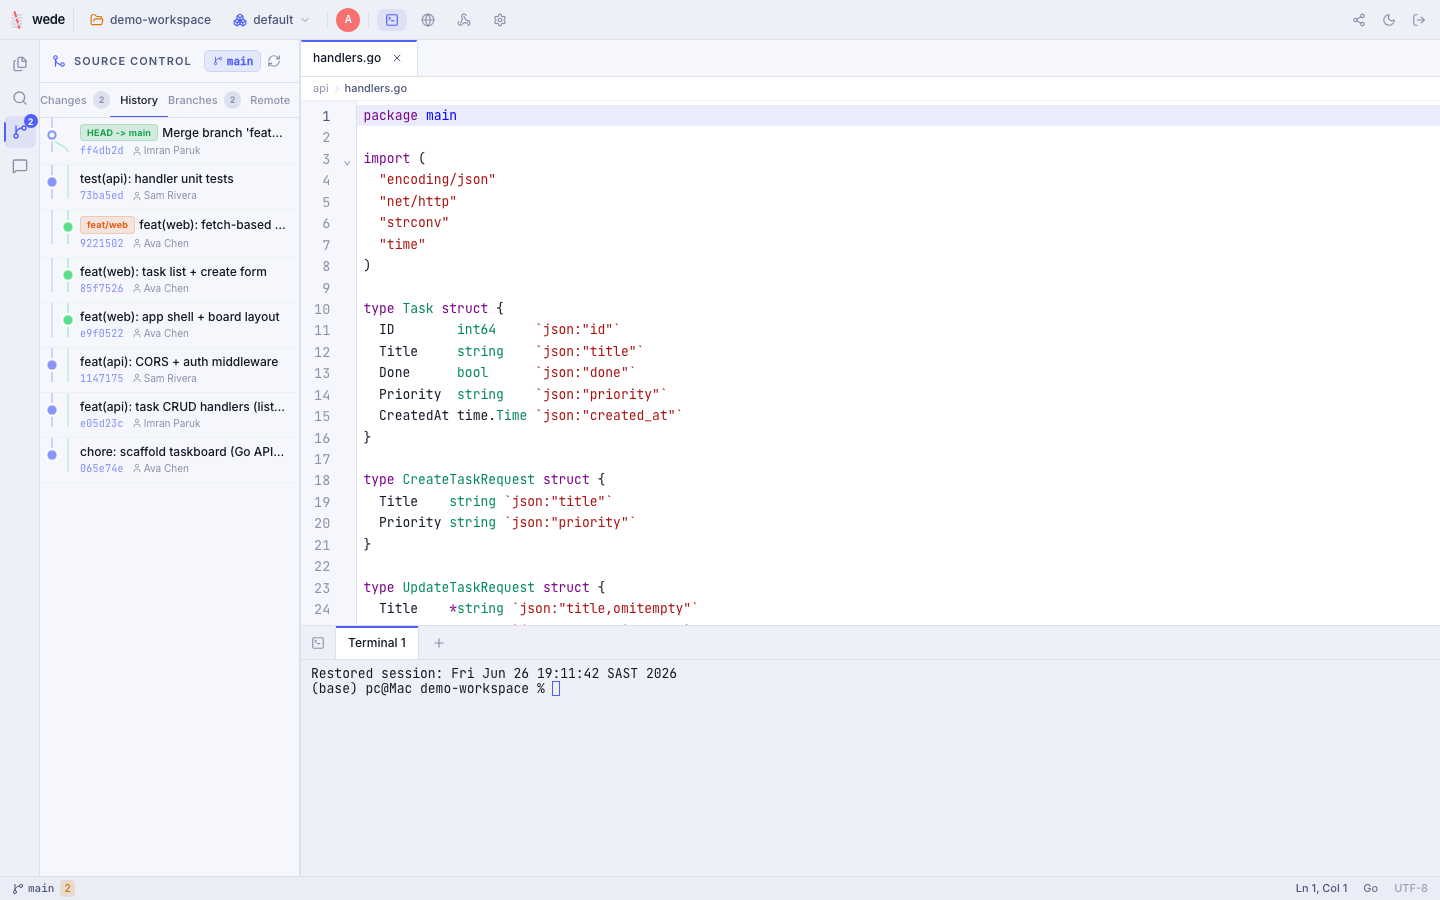
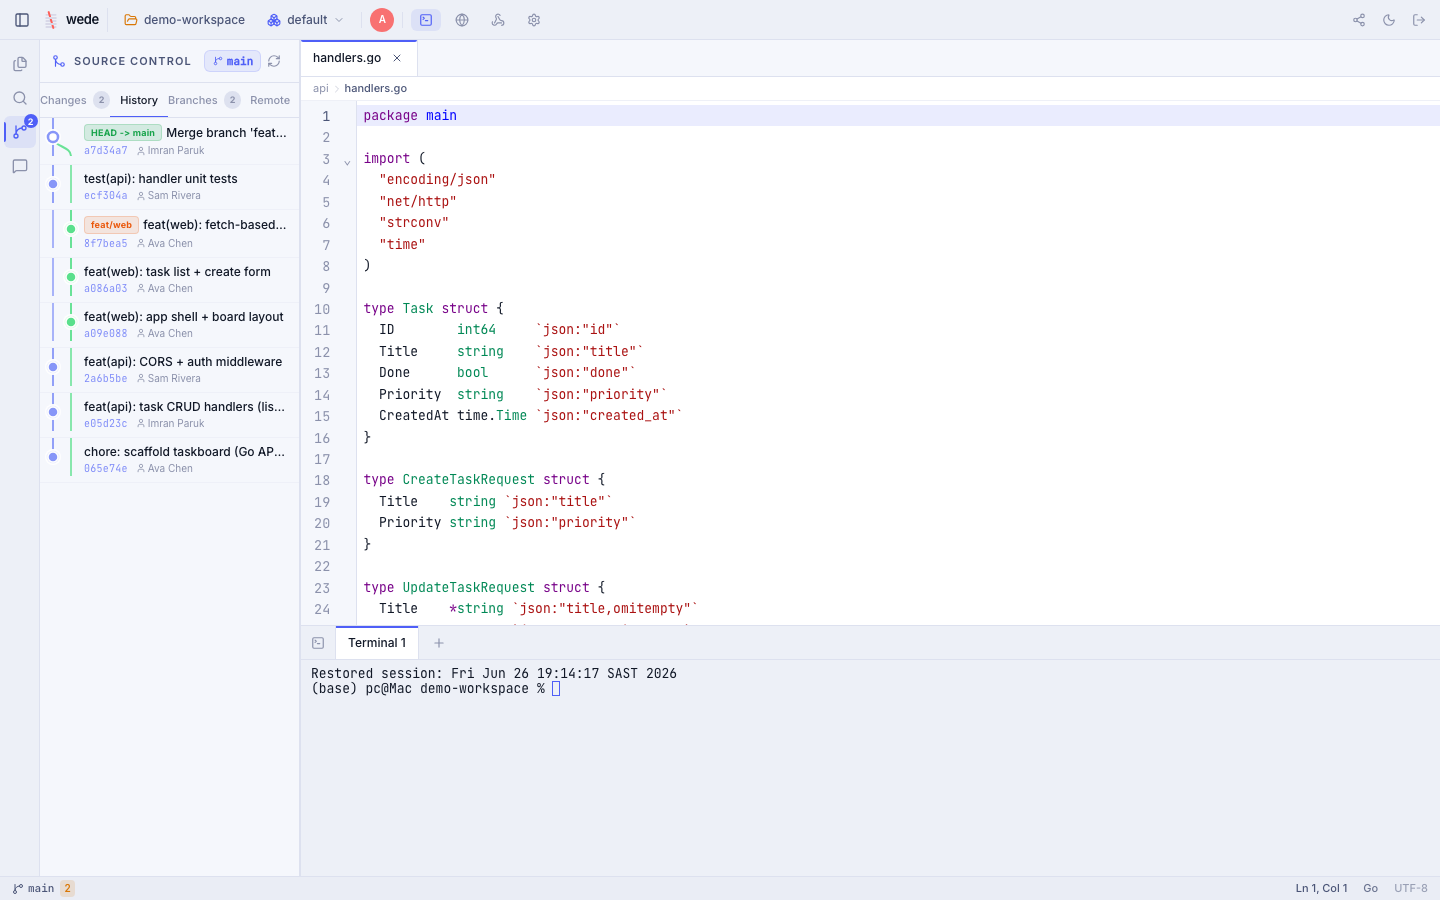
feat(ui): refine git graph + sidebar toggle/resize
Git graph: thicker (2px) rounded, higher-opacity lane lines that connect
cleanly row-to-row; smooth symmetric S-curves for branch/merge; bigger
dots with a bg ring; merge commits render as a hollow ring to stand out.
Wider lanes (18px) + taller rows (38px) for breathing room.

Sidebar: new top-bar PanelLeft button toggles the left panel (active state
when hidden) + Ctrl/Cmd+B shortcut (VS Code parity). Resize handle gets a
7px invisible hit area so the 1px divider is actually grabbable, with an
accent highlight on hover.

Changed region(s): [[0.0312, 0.1244, 0.1875, 0.5289], [0.0, 0.0, 0.375, 0.0311]]

diff --git a/src/components/GitPanel.jsx b/src/components/GitPanel.jsx
@@ -349,9 +349,10 @@ function buildGraph(entries) {
   return rows
 }
 
-const LANE_W = 16
-const ROW_H  = 34
-const DOT_R  = 4.5
+const LANE_W = 18
+const ROW_H  = 38
+const DOT_R  = 5
+const STROKE = 2
 
 function GraphRow({ row, nextRow, isLast, onContextMenu, isSelected, onClick }) {
   const laneCount = Math.max(row.laneCount, nextRow?.laneCount || 0, 1)
@@ -368,23 +369,25 @@ function GraphRow({ row, nextRow, isLast, onContextMenu, isSelected, onClick }) 
     const active = row.activeLanes[i] != null
 
     if (i === row.lane) {
-      lines.push(<line key={`t${i}`} x1={x} y1={0} x2={x} y2={cy} stroke={lc} strokeWidth={1.5} opacity={0.5} />)
+      lines.push(<line key={`t${i}`} x1={x} y1={0} x2={x} y2={cy} stroke={lc} strokeWidth={STROKE} strokeLinecap="round" opacity={0.9} />)
       if (row.parents.length > 0 && !isLast) {
-        lines.push(<line key={`b${i}`} x1={x} y1={cy} x2={x} y2={ROW_H} stroke={lc} strokeWidth={1.5} opacity={0.5} />)
+        lines.push(<line key={`b${i}`} x1={x} y1={cy} x2={x} y2={ROW_H} stroke={lc} strokeWidth={STROKE} strokeLinecap="round" opacity={0.9} />)
       }
     } else if (active) {
-      lines.push(<line key={`p${i}`} x1={x} y1={0} x2={x} y2={ROW_H} stroke={lc} strokeWidth={1.5} opacity={0.35} />)
+      lines.push(<line key={`p${i}`} x1={x} y1={0} x2={x} y2={ROW_H} stroke={lc} strokeWidth={STROKE} strokeLinecap="round" opacity={0.7} />)
     }
   }
 
+  // Smooth symmetric S-curves from the merge commit down to each extra parent's lane.
   const curves = row.mergeLines.map(({ from, to }, i) => {
     const fx = 4 + from * LANE_W + LANE_W / 2
     const tx = 4 + to   * LANE_W + LANE_W / 2
+    const midY = (cy + ROW_H) / 2
     return (
       <path key={`m${i}`}
-        d={`M${fx},${cy} C${fx},${cy + 10} ${tx},${cy + 10} ${tx},${ROW_H}`}
+        d={`M${fx},${cy} C${fx},${midY} ${tx},${midY} ${tx},${ROW_H}`}
         stroke={LANE_COLORS[to % LANE_COLORS.length]}
-        strokeWidth={1.5} fill="none" opacity={0.45} />
+        strokeWidth={STROKE} fill="none" strokeLinecap="round" opacity={0.9} />
     )
   })
 
@@ -411,17 +414,18 @@ function GraphRow({ row, nextRow, isLast, onContextMenu, isSelected, onClick }) 
       <svg width={svgW} height={ROW_H} className="shrink-0 opacity-90" style={{ minWidth: svgW }}>
         {lines}
         {curves}
-        <circle cx={cx} cy={cy} r={DOT_R + 2.5} fill="var(--c-bg-primary)" />
+        <circle cx={cx} cy={cy} r={DOT_R + 3} fill="var(--c-bg-primary)" />
         {isMerge ? (
+          // merge commit — hollow ring to distinguish it
           <>
-            <circle cx={cx} cy={cy} r={DOT_R + 1} fill={color} opacity={0.25} />
-            <circle cx={cx} cy={cy} r={DOT_R} fill={color} />
-            <circle cx={cx} cy={cy} r={DOT_R - 2} fill="var(--c-bg-primary)" />
+            <circle cx={cx} cy={cy} r={DOT_R + 1.5} fill={color} opacity={0.18} />
+            <circle cx={cx} cy={cy} r={DOT_R} fill="var(--c-bg-primary)" stroke={color} strokeWidth={2.5} />
           </>
         ) : (
+          // normal commit — filled dot with a crisp bg ring
           <>
-            <circle cx={cx} cy={cy} r={DOT_R + 1} fill={color} opacity={0.2} />
-            <circle cx={cx} cy={cy} r={DOT_R} fill={color} />
+            <circle cx={cx} cy={cy} r={DOT_R + 1.5} fill={color} opacity={0.16} />
+            <circle cx={cx} cy={cy} r={DOT_R} fill={color} stroke="var(--c-bg-primary)" strokeWidth={1.5} />
           </>
         )}
       </svg>

diff --git a/src/index.css b/src/index.css
@@ -294,13 +294,24 @@ body {
   width: 1px;
   cursor: col-resize;
   background: var(--c-border);
-  transition: background 0.15s, width 0.15s;
+  transition: background 0.15s;
   position: relative;
+  flex-shrink: 0;
+}
+/* Wider invisible hit area so the 1px handle is easy to grab. */
+.resize-handle-h::before {
+  content: '';
+  position: absolute;
+  top: 0;
+  bottom: 0;
+  left: -3px;
+  right: -3px;
+  z-index: 5;
 }
 .resize-handle-h:hover,
 .resize-handle-h:active {
   background: var(--c-accent);
-  width: 2px;
+  box-shadow: 0 0 0 1px var(--c-accent);
 }
 
 .resize-handle-v {

diff --git a/src/components/IDE.jsx b/src/components/IDE.jsx
@@ -2,7 +2,7 @@ import { useState, useCallback, useRef, useEffect } from 'react'
 import {
   Files, GitBranch, TerminalSquare, LogOut, Save, FolderOpen,
   Globe, Settings as SettingsIcon, Moon, Sun, ChevronLeft, Search as SearchIcon,
-  Share2, MessageSquare, Webhook,
+  Share2, MessageSquare, Webhook, PanelLeft,
 } from 'lucide-react'
 import { useMobile } from '../hooks/useMobile'
 import { useTheme } from '../hooks/useTheme'
@@ -292,6 +292,11 @@ export default function IDE({ token, authFetch, onLogout, workspace, recents, on
           e.preventDefault()
           editorActionsRef.current?.goToLine()
         }
+      }
+      // Ctrl/Cmd+B — toggle the sidebar (VS Code parity)
+      if ((e.metaKey || e.ctrlKey) && !e.shiftKey && e.key.toLowerCase() === 'b') {
+        e.preventDefault()
+        setShowSidebar((s) => !s)
       }
     }
     window.addEventListener('keydown', handler)
@@ -792,6 +797,13 @@ export default function IDE({ token, authFetch, onLogout, workspace, recents, on
       <div className="flex items-center justify-between px-2 h-10 bg-bg-tertiary border-b border-border shrink-0 select-none">
         {/* Left: logo + workspace */}
         <div className="flex items-center gap-1.5">
+          <button onClick={() => setShowSidebar((s) => !s)}
+            className={`flex items-center px-1.5 py-1 rounded-md transition-colors ${
+              showSidebar ? 'text-text-secondary hover:text-text-primary hover:bg-bg-hover' : 'text-accent bg-accent/10'
+            }`}
+            title={showSidebar ? 'Hide sidebar (Ctrl/Cmd+B)' : 'Show sidebar (Ctrl/Cmd+B)'}>
+            <PanelLeft className="w-4 h-4" />
+          </button>
           <div className="flex items-center gap-2 pr-2 mr-0.5 border-r border-border h-6">
             <Logo size={18} showName nameClass="text-[13px] font-semibold text-text-primary tracking-tight" />
           </div>